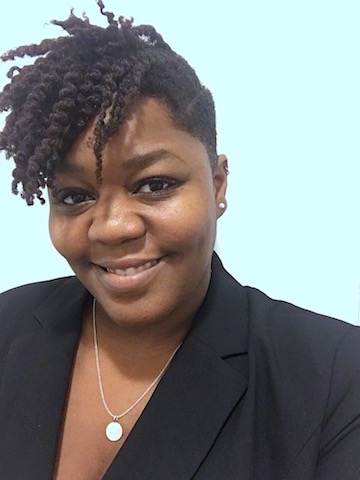
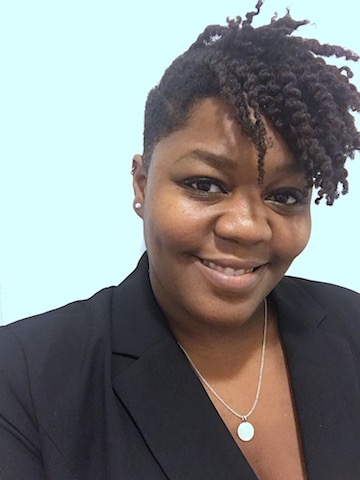
adding updated photos

diff --git a/index.html b/index.html
@@ -19,7 +19,7 @@
     <nav class="navbar navbar-expand-sm transparent navbar-dark p-3 fixed-top">
       <div class="container">
         <!--navbar brand-->
-        <a href="#" class="navbar-brand"> Qya Ahmad</a>
+        <a href="mailto:qya.ahmad239@gmail.com" class="navbar-brand" style="font-family: 'Berkshire Swash', cursive;"> Qya Ahmad</a>
         <button class="navbar-toggler" type="button" data-toggle="collapse" data-target"#nav">
             <span class="navbar-toggler-icon"></span>
           </button>
@@ -45,16 +45,23 @@
     <!--banner-->
     <section id="banner">
       <div class="container">
-        <div class="row max-viewport align-item-center text-center">
+        <div class="row max-viewport align-items-center text-center">
           <div class ="col-md-6 d-none d-md-block">
-            <img src="images/IMG_9466 2.JPG" class ="img-fluid rounded-thumbnail">
+            <img src="images/portfolio.jpg" class ="img-fluid rounded-circle">
           </div>
           <div class="col-12 col-sm-6 mx-auto my-5">
+
             <h1 class= "text-black text-uppercase"> Qya Ahmad</h1>
-            <a href="https://github.com/rahmad239" class=" btn btn-lg btn-outline-warning text-uppercase m-4 p-4">
-              <i class="fab fa-github mr-2">Github</i></a>
-            <a href="https://www.linkedin.com/in/rahmad239/" class=" btn btn-lg btn-outline-warning text-uppercase m-4 p-4">
-                <i class="fab fa-linkedin-in mr-2">Linkedin</i></a>
+            <h2 class= "text-black"> Web Developer</h2>
+            <h5 class="text-black">I am a passionate full stack web developer and creative innovator who is experienced in bridging teams and 
+              pushing projects forward to success. I approach development with the client in mind. I look for the most efficient and tangible solutions.</h5>
+
+            <a href="https://github.com/rahmad239" class=" btn btn-lg btn-warning text-uppercase m-4 p-3">
+              <i class="fab fa-github mr-2"> Github</i></a>
+            <a href="https://www.linkedin.com/in/rahmad239/" class=" btn btn-lg btn-warning text-uppercase m-4 p-3">
+              <i class="fab fa-linkedin-in mr-2"> Linkedin</i></a>
+            <a href="Resume/Qya Ahmad Resume.pdf" class=" btn btn-lg btn-warning text-uppercase m-4 p-3">
+              <i class="far fa-file mr-2"> Resume</i></a>
           </div>
         </div>
       </div>
@@ -62,14 +69,14 @@
     <!--qualities section-->
     <section id="corevalues" class="py-5 bg-secondary">
       <div class="container">
-        <div class="row align-item-center text-center">
+        <div class="row align-items-center text-center">
           <div class="col-sm-12 col-md-6 col-lg-4 text-white my-3 d-flex">
             <i class= "fas fa-hands fa-5x mr-3 align-self-center"></i>
             <div class="inner-text">
               <h1 class="my-3">Volunteering</h1>
-              <p class="lead">The more we share the happier we feel. Through VIcode I am able to share
-                what I know with people who would never have access to the same information. It allows me to
-                demonstrate my commitment to the community and create an oppertunity to give back.
+              <p class="lead">The more we share the happier we feel. Giving back to individuals, communities and organizations in 
+                need, allows me to share my knowledge and gain insight into areas of opportunity my career and extra curricular activities may
+                not normally expose me to. I view volunteering as a necessary form of demonstrating commitment to the community. 
               </p>
             </div>
           </div>
@@ -78,8 +85,9 @@
             <div class="inner-text">
               <h1 class="my-3">Travel</h1>
               <p class="lead">Travel is my passion. It is my favorite way of keeping my mind open and allowing myself
-                  to appreciate and truly see the strength of diversity in human kind. We are innovative, we are creative, 
-                  we are resourceful, we find and create beauty. There is so much we can learn from each other as global citizens. 
+                  to appreciate and truly see the strength of diversity in human kind. We are innovative. We are creative.
+                  We are resourceful. We find, and create, beauty. There is so much we can learn from each other as global citizens and exposure
+                 and experience is the first step in that learning process.
               </p>
             </div>
           </div>
@@ -87,9 +95,9 @@
             <i class= "fas fa-handshake fa-5x mr-3 align-self-center"></i>
             <div class="inner-text">
               <h1 class="my-3">Client Focused</h1>
-              <p class="lead">  I am passionate full stack web developer and creative innovator who is experienced in bridging teams and 
-                pushing projects forward to success. I approach development with the client in mind. I look for the most efficient "how" 
-                in solving business pains and create tangible solutions.
+              <p class="lead">I focus on relationships, not transactions. Having started my career 15 years ago in client facing roles, my success has always 
+                been tied directly to my clients satisfaction. In every interaction I aim to align with my clients needs, understand what the current challenges are, and anticipate
+                the future challenges. The responsive solutions I provide aim to address both. 
               </p>
             </div>
           </div>
@@ -102,10 +110,11 @@
       <div class="containter">
         <div class="row text-center align-items-center justify-content-between">
           <div class="col-sm-6 my-2">
-            <h1 class="text-white text-uppercase">My work history is extensive</h1>
+            <h1 class="text-white text-uppercase">Contact Me</h1>
           </div>
           <div class="col-sm-6 my-4">
-            <a href="Resume/Qya Ahmad Resume.pdf" class="btn btn-lg btn-outline-warning text-uppercase">Resume </a>
+            <a href="mailto:Qya.Ahmad239@gmail.com" class="btn btn-lg btn-outline-warning text-uppercase">
+                <i class="fas fa-envelope mr-2"> Email</i></a>
           </div>
         </div>
       </div>
@@ -116,37 +125,34 @@
       <div class="container">
         <div class="row">
           <div class="col-sm-6 my-3">
-            <img src="images/project1.jpg" class="img-fluid rounded" alt"jeopardy board">
-            <h1 class="my-3">Project 1</h1>
+            <div><a href="https://rahmad239.github.io/GA-Projects-/"><img src="images/project1.jpg" class="img-fluid rounded" alt"Jeopardy Board"></a></div>
+            <h1 class="my-3">Jeopardy</h1>
             <p class="text-muted"> Model Jeopardy is a game I created using HTML5, CSS and
               JavaScript (es6). It came together by leveraging techniques of DOM manipulation to
-              create an interactive game that prompts players to answer quiz questions.
-            </p> 
+              create an interactive game that prompts players to answer quiz questions.</p> 
           </div>
           <div class="col-sm-6 my-3">
-            <img src="images/project2.jpg" class="img-fluid rounded" alt"jeopardy board">
-            <h1 class="my-3">Project 2</h1>
+            <div><a href="https://gotta-get-back.herokuapp.com/"><img src="images/project2.jpg" class="img-fluid rounded" alt"Gotta Get Back Landing Page"></a></div>
+            <h1 class="my-3">Gotta Get Back</h1>
             <p class="text-muted"> Gotta Get Back is a virtual travel log built to allow users to
               use a virtual platform to keep track of travel notes, contacts, and destination specific information,
               It was built using Express,Handlebars and Mongoose and has with full CRUD functionality. The app was
               deployed on Heroku.</p> 
           </div>
           <div class="col-sm-6 my-3">
-            <img src="images/project3.jpg" class="img-fluid rounded" alt"jeopardy board">
-            <h1 class="my-3">Project 3</h1>
+            <div><a href="http://cheap-wash.surge.sh/"><img src="images/project3.jpg" class="img-fluid rounded" alt"In The Works Landing Page"></a></div>
+            <h1 class="my-3">In The Works</h1>
             <p class="text-muted"> Worked with a team of developers to create a full stack MERN app
               for career management. During planning, user stories, ERDs, and wire framing, were
               leveraged. During our work process, the Git Workflow was utilized as we worked to develop the full 
-              CRUD functionality.
-        .
-            </p> 
+              CRUD functionality.</p> 
           </div>
           <div class="col-sm-6 my-3">
-            <img src="images/project4.jpg" class="img-fluid rounded" alt"jeopardy board">
-            <h1 class="my-3">Project 4</h1>
-            <p class="text-muted"> VIcode is an app to provide a platform for users to 
-              store notes on topics related to code and games that they find online that are related to coding. 
-              This is a learning que that is most useful for people who are interested in self teaching and want to keep resources
+            <img src="images/project4.jpg" class="img-fluid rounded" alt"V.I. Code Landing Page">
+            <h1 class="my-3">V.I. Code</h1>
+            <p class="text-muted"> V.I.code is an app to provide a platform for users to 
+              store notes on topics related to code  and games that they find online that are related to coding. 
+              This is a learning queue that is most useful for people who are interested in self teaching and want to keep resources
               and games in one place to use or refer back to. </p> 
           </div>
         </div>
@@ -157,7 +163,9 @@
       <div class="container">
         <div class="row">
           <div class="col text-center">
-            <h4 class="text-white text-capitalize">&copy;copyright 2018 qya</h4>
+            <h4 class="text-white text-capitalize">qya.ahmad239@gmail.com</h4>
+            <h4 class="text-white">240-515-0114</h4>
+            </h4>
           </div>
         </div>
       </div>
